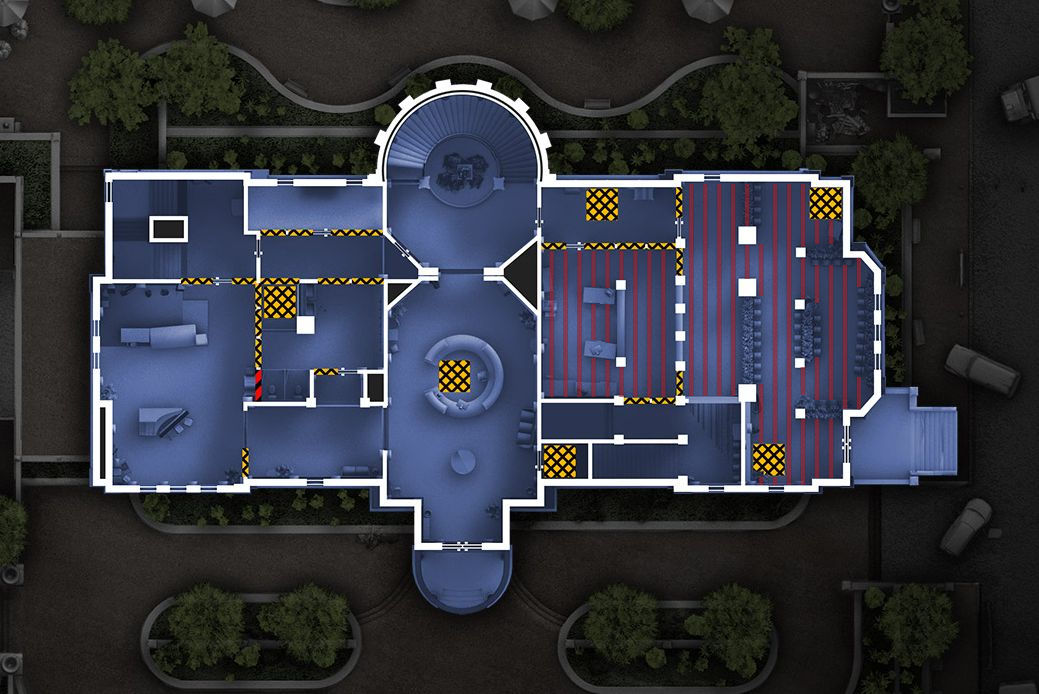
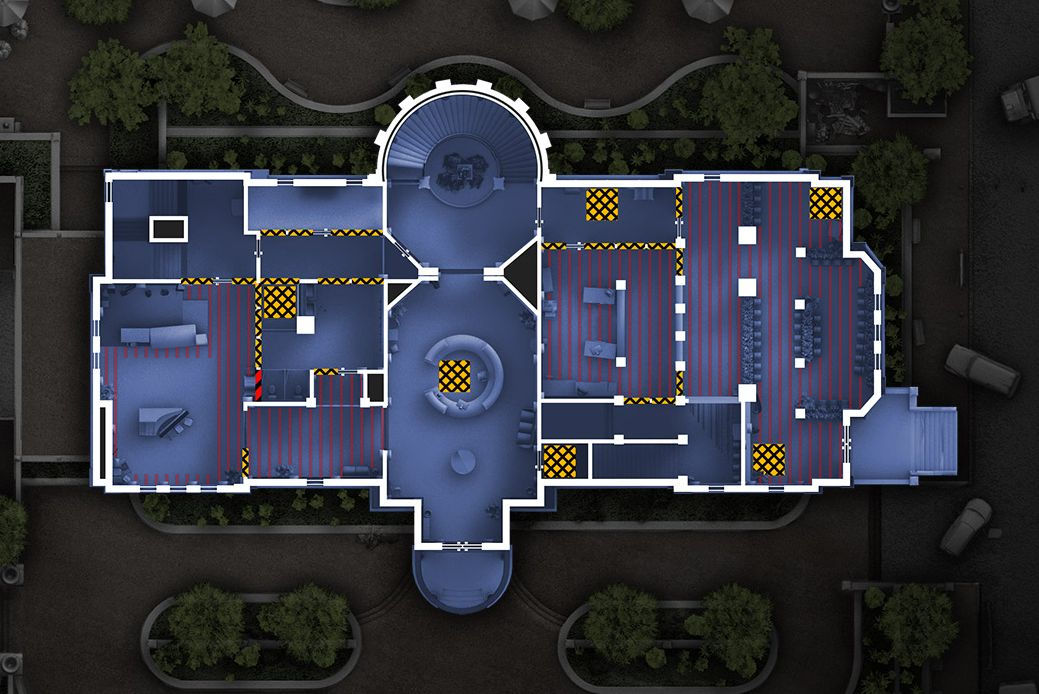
Misc improvements for consulate

Changed region(s): [[0.5236, 0.2421, 0.8316, 0.696], [0.0924, 0.3934, 0.3696, 0.696], [0.0924, 0.6052, 0.1232, 0.6354]]

diff --git a/dev/js/r6-maps.map-data.js b/dev/js/r6-maps.map-data.js
@@ -857,24 +857,24 @@ var R6MapsData = (function(R6MapsLangTerms, undefined){
           { index: 3, top: -282, left: -452, name: floorTerms.roof }
         ],
         hostageObjectives: [
-          { floor: 1, top: 41, left: 142 },
-          { floor: 2, top: 121, left: -256 },
-          { floor: 2, top: 74, left: 319 },
-          { floor: 0, top: -67, left: 269 }
+          { floor: 1, top: 41, left: 203 },
+          { floor: 2, top: 121, left: -294 },
+          { floor: 2, top: 45, left: 328 },
+          { floor: 0, top: -34, left: 302 }
         ],
         bombObjectives: [
-          { floor: 0, top: 56, left: -239, set: 1, letter: objectiveTerms.bombShortB },
-          { floor: 0, top: 128, left: -29, set: 1, letter: objectiveTerms.bombShortA },
+          { floor: 0, top: 56, left: -239, set: 3, letter: objectiveTerms.bombShortB },
+          { floor: 0, top: 130, left: -29, set: 3, letter: objectiveTerms.bombShortA },
           { floor: 1, top: 153, left: -255, set: 2, letter: objectiveTerms.bombShortA },
           { floor: 1, top: 153, left: 11, set: 2, letter: objectiveTerms.bombShortB },
-          { floor: 2, top: 167, left: 11, set: 3, letter: objectiveTerms.bombShortA },
-          { floor: 2, top: 121, left: -294, set: 3, letter: objectiveTerms.bombShortB }
+          { floor: 2, top: 167, left: 11, set: 1, letter: objectiveTerms.bombShortA },
+          { floor: 2, top: 121, left: -256, set: 1, letter: objectiveTerms.bombShortB }
         ],
         secureObjectives: [
           { floor: 0, top: -26, left: -183 },
-          { floor: 0, top: -21, left: 338 },
+          { floor: 0, top: -34, left: 346 },
           { floor: 1, top: -6, left: 326 },
-          { floor: 2, top: 25, left: 319 }
+          { floor: 2, top: 0, left: 310 }
         ],
         zoomPoints: {
           topLeft: { top: -196, left: -354 },
@@ -968,7 +968,7 @@ var R6MapsData = (function(R6MapsLangTerms, undefined){
           { floor: 0, top: 144, left: 139, smaller: true, description: consulateTerms.serviceStairs },
           { floor: 0, top: -68, left: 113, smaller: true, description: consulateTerms.electricRoom },
           { floor: 0, top: 98, left: 139, description: consulateTerms.storageRoom },
-          { floor: 0, top: -17, left: 277, description: consulateTerms.archives },
+          { floor: 0, top: -24, left: 245, description: consulateTerms.archives },
           { floor: 0, top: 180, left: 245, description: consulateTerms.archivesCorridor },
           { floor: 1, top: -59, left: -237, description: consulateTerms.exitStairs },
           { floor: 1, top: 105, left: -276, description: consulateTerms.pressRoom },
@@ -977,12 +977,12 @@ var R6MapsData = (function(R6MapsLangTerms, undefined){
           { floor: 1, top: 49, left: -105, description: consulateTerms.publicBathroom },
           { floor: 1, top: 167, left: -139, description: consulateTerms.antechamber },
           { floor: 1, top: 44, left: 9, description: consulateTerms.lobby },
-          { floor: 1, top: -60, left: 192, description: consulateTerms.eastCorridor },
-          { floor: 1, top: 50, left: 198, description: consulateTerms.tellers },
+          { floor: 1, top: -60, left: 192, description: consulateTerms.eastCorridor, hardToRead: true },
+          { floor: 1, top: 52, left: 138, description: consulateTerms.tellers, hardToRead: true },
           { floor: 1, top: 144, left: 139, smaller: true, description: consulateTerms.serviceStairs },
           { floor: 1, top: 184, left: 184, smaller: true, description: consulateTerms.serviceStairs },
-          { floor: 1, top: -9, left: 270, description: consulateTerms.visaOffice },
-          { floor: 1, top: 112, left: 352, description: consulateTerms.visaOffice },
+          { floor: 1, top: -9, left: 270, description: consulateTerms.visaOffice, hardToRead: true },
+          { floor: 1, top: 112, left: 352, description: consulateTerms.visaOffice, hardToRead: true },
           { floor: 1, top: -50, left: 10, description: consulateTerms.mainStairs },
           { floor: 1, top: 160, left: 430, description: consulateTerms.visaEntrance },
           { floor: 1, top: 298, left: 10, description: consulateTerms.frontDoor },
@@ -992,7 +992,7 @@ var R6MapsData = (function(R6MapsLangTerms, undefined){
           { floor: 2, top: -48, left: 161, description: consulateTerms.copyRoom },
           { floor: 2, top: 39, left: -275, hardToRead: true, description: consulateTerms.cabinet },
           { floor: 2, top: -48, left: 279, hardToRead: true, description: consulateTerms.administrationOffice },
-          { floor: 2, top: 118, left: 279, hardToRead: true, description: consulateTerms.administrationOffice },
+          { floor: 2, top: 112, left: 279, hardToRead: true, description: consulateTerms.administrationOffice },
           { floor: 2, top: -50, left: 10, description: consulateTerms.mainStairs },
           { floor: 2, top: 29, left: 182, description: consulateTerms.breakRoom },
           { floor: 2, top: 118, left: 148, description: consulateTerms.frontOffice },
